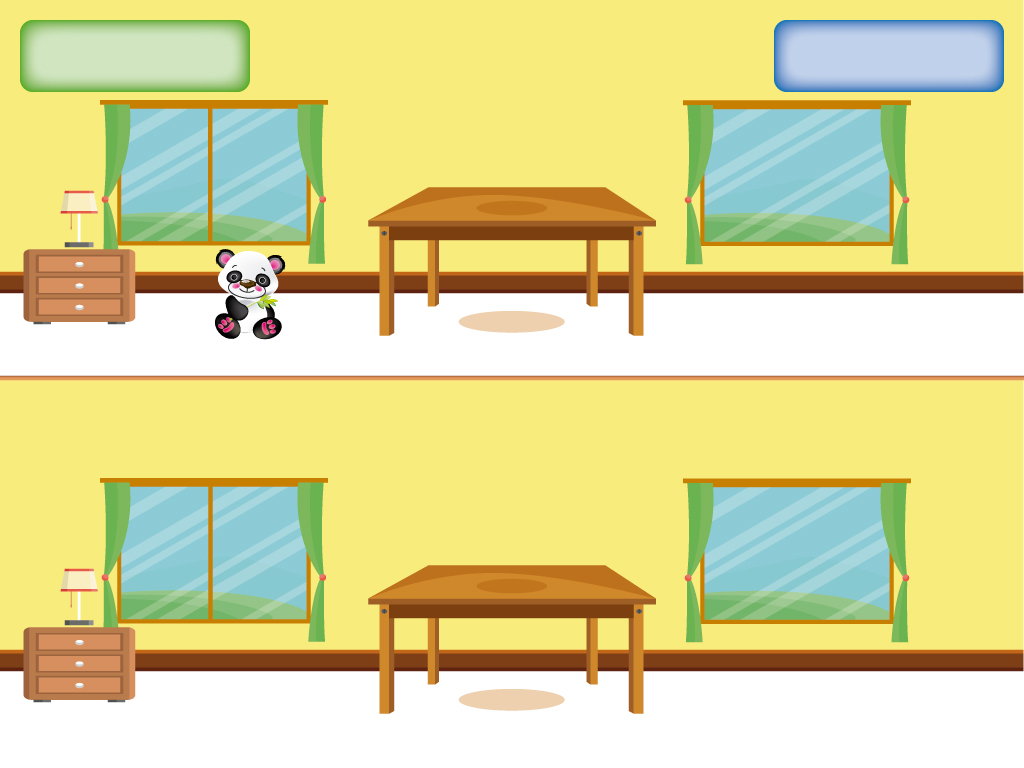
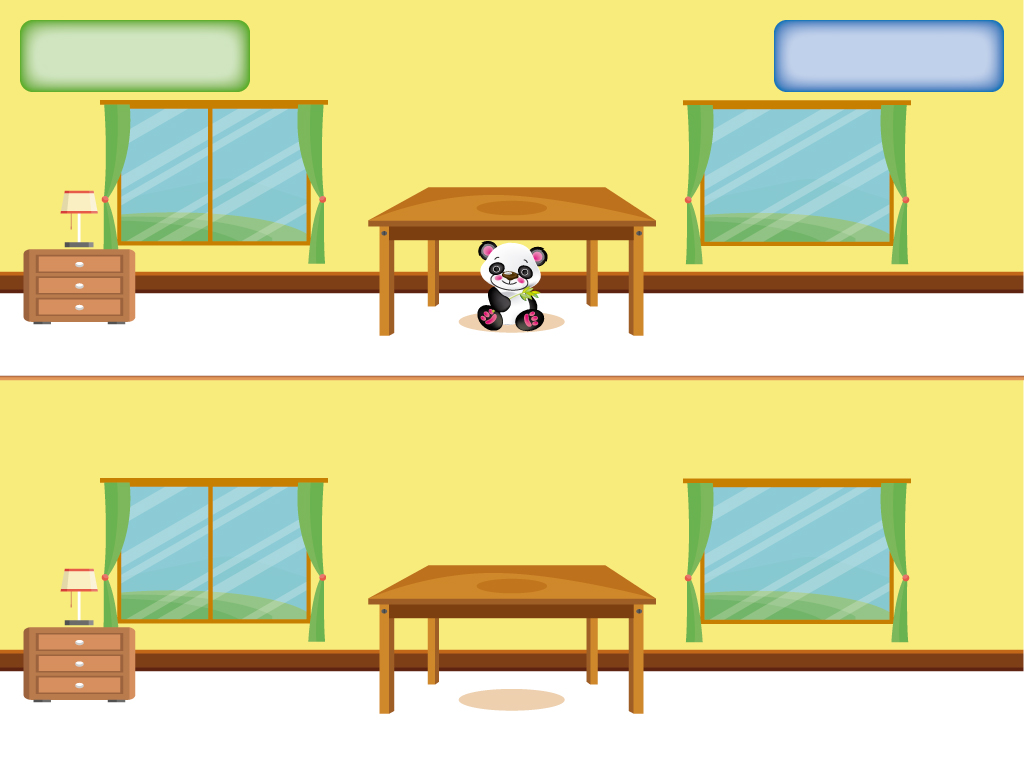
Cambios en el Juego Adentro Afuera y en Fin de Juego

Changed region(s): [[0.1875, 0.3125, 0.2812, 0.4375], [0.4688, 0.3125, 0.5312, 0.4375]]

diff --git a/JuegoFinal/main.py b/JuegoFinal/main.py
@@ -92,6 +92,7 @@ class IdleScreen():
 		self.clock = pygame.time.Clock()
 		self.font = pygame.font.SysFont("gaban", 55)
 		self.fontPuntaje = pygame.font.SysFont("Answer", 35)
+		self.fontTiempo = pygame.font.SysFont("Answer", 25)
 		self.fontFinJuego = pygame.font.SysFont("RicksAmericanNF", 55)
 		self.fontColor = (16, 4, 130)
 		self.menuItems = list()
@@ -1501,35 +1502,35 @@ class IdleScreen():
 			if actividad == "Adentro":
 				posOsoX = 150
 				posOsoY = 150
-				posObjX = 300
-				posObjY = 600
+				posObjX = 250
+				posObjY = 670
 			elif actividad == "Afuera":
 				posOsoX = 750
-				posOsoY = 150
+				posOsoY = 120
 				posObjX = 800
-				posObjY = 600
+				posObjY = 670
 			elif actividad == "Encima":
 				posOsoX = 150
 				posOsoY = 150
-				posObjX = 300
-				posObjY = 600
+				posObjX = 460
+				posObjY = 530
 			elif actividad == "Debajo":
 				posOsoX = 150
 				posOsoY = 150
-				posObjX = 300
-				posObjY = 600
+				posObjX = 460
+				posObjY = 685
 
 			# Instancia del objeto Cuadro
 			ObjJug = Oso.Osito(self.scrWidth, self.scrHeight, posOsoX, posOsoY)
 			# Instancia del Objeto ObjetivoMover
-			Lugar = Objetivo.ObjetivoMover(posObjX,posObjY,'Imagenes/Moneda1.png','Imagenes/Moneda2.png')
+			Lugar = Objetivo.ObjetivoMover(posObjX,posObjY,'Imagenes/Objetivo1.png','Imagenes/Objetivo2.png')
 
 			# Instancia del Objeto Puntaje
 			puntos = Puntaje.Score(self.fontPuntaje, (900,60))
 			# Cargar el Temporizador de la Actividad
-			Tempo = Temporizador.Tiempito(self.fontPuntaje, (900,120))
+			Tempo = Temporizador.Tiempito(self.fontTiempo, (135,42))
 			# Cargar el Temporizador de Ejecucion de la Actividad
-			Tempo2 = Temporizador.Tiempito(self.fontPuntaje, (130,60))
+			Tempo2 = Temporizador.Tiempito(self.fontTiempo, (130,72))
 			# Verificar si el Jugador gano o perdio
 			enJuego = True
 			#if not done:
@@ -1588,17 +1589,17 @@ class IdleScreen():
 				# Se Muestra la Actividad a Realizar
 				screen.blit(TxtActividad, (400,20))
 				# Se muestra el tiempo de la actividad
-				Tempo.update(screen)
+				Tempo.update_actividad(screen)
 				Tempo2.update(screen)
 				# Actualizar el Puntaje del JUEGO
 				puntos.update(screen)
-				# Actualiza el Osito en la Pantalla
-				ObjJug.update(screen, self.scrWidth)
 
 				# Animacion del ObjetivoMover
 				Lugar.comportamiento(tiempo)
 				# Dibuja el Objetivo a Realizar
 				Lugar.dibujar(screen)
+				# Actualiza el Osito en la Pantalla
+				ObjJug.update(screen, self.scrWidth)
 
 				#Verificar Colision del Jugador con el Objetivo
 				if ObjJug.rect.collidepoint(self.scrWidth - posObjX,posObjY):
@@ -2172,6 +2173,8 @@ class IdleScreen():
 	# Pantalla De Fin del Juego
 	def FinJuego(self, puntos, TiempoJuego, NroJuego):
 			global done
+			global PuntajeTotal
+			global TiempoTotal
 			screenloop = True
 			(depth,_) = get_depth()
 			# Lista de cache en blanco para el area convexa del casco
@@ -2205,6 +2208,8 @@ class IdleScreen():
 
 			while screenloop:
 				self.clock.tick(30)
+				PuntajeTotal = 0
+				TiempoTotal = 0
 				# Obtenga la profundidad del kinect
 				(depth,_) = get_depth()
 				old_depth = depth
@@ -2241,46 +2246,65 @@ class IdleScreen():
 					screen.blit(Marcador,(350,170))
 					screen.blit(TiempoFinal,(410,230))
 				elif NroJuego == 1:
-					y = 130
+					y = 115
 					accion = "Izquierda"
 					for item in listaPuntos:
 						Marcador = pygame.transform.flip(self.fontPuntaje.render("Puntaje "+ accion +" : " + str(item), 1, (143,31,130)), 1, 0)
-						screen.blit(Marcador,(510,y))
-						screen.blit(TiempoFinal,(200,y))
-						y += 50
-						if y == 180:
+						screen.blit(Marcador,(520,y))
+						TiempoFinal = pygame.transform.flip(self.fontPuntaje.render("Tiempo "+ accion +" : 500" , 1, (143,31,130)), 1, 0)
+						screen.blit(TiempoFinal,(190,y))
+						# Sumar el Puntaje Total
+						PuntajeTotal = PuntajeTotal + item
+						y += 45
+						if y == 160:
 							accion = "Derecha"
-						elif y == 230:
+						elif y == 205:
 							accion = "Arriba"
-						elif y == 280:
+						elif y == 250:
 							accion = "Abajo"
+					# Imprimir el Puntaje Total
+					PuntosTotales = pygame.transform.flip(self.fontPuntaje.render("Puntaje Total: " + str(PuntajeTotal), 1, (143,31,130)), 1, 0)
+					screen.blit(PuntosTotales,(520,295))
+					# Imprimir el Tiempo Total
+					TiemposTotales = pygame.transform.flip(self.fontPuntaje.render("Tiempo Total: 2000", 1, (143,31,130)), 1, 0)
+					screen.blit(TiemposTotales,(190,295))
 				elif NroJuego == 4:
 					# Imprimir el Puntaje de Todas las Acciones
-					y = 130
+					y = 115
 					accion = "Adentro"
 					for item in listaPuntos:
 						Marcador = pygame.transform.flip(self.fontPuntaje.render("Puntaje "+ accion +" : " + str(item), 1, (143,31,130)), 1, 0)
-						screen.blit(Marcador,(510,y))
-						y += 50
-						if y == 180:
+						screen.blit(Marcador,(520,y))
+						# Sumar el Puntaje Total
+						PuntajeTotal = PuntajeTotal + item
+						y += 45
+						if y == 160:
 							accion = "Afuera"
-						elif y == 230:
+						elif y == 205:
 							accion = "Encima"
-						elif y == 280:
+						elif y == 250:
 							accion = "Debajo"
+					# Imprimir el Puntaje Total
+					PuntosTotales = pygame.transform.flip(self.fontPuntaje.render("Puntaje Total: " + str(PuntajeTotal), 1, (143,31,130)), 1, 0)
+					screen.blit(PuntosTotales,(520,295))
 					# Imprimir el Tiempo de Todas las Acciones
-					y = 130
+					y = 115
 					accion = "Adentro"
 					for item in listaTiempo:
 						TiempoFinal = pygame.transform.flip(self.fontPuntaje.render("Tiempo "+ accion +" : " + str(item), 1, (143,31,130)), 1, 0)
-						screen.blit(TiempoFinal,(200,y))
-						y += 50
-						if y == 180:
+						screen.blit(TiempoFinal,(190,y))
+						# Sumar el Tiempo Total
+						TiempoTotal = TiempoTotal + item
+						y += 45
+						if y == 160:
 							accion = "Afuera"
-						elif y == 230:
+						elif y == 205:
 							accion = "Encima"
-						elif y == 280:
+						elif y == 250:
 							accion = "Debajo"
+					# Imprimir el Tiempo Total
+					TiemposTotales = pygame.transform.flip(self.fontPuntaje.render("Tiempo Total: " + str(TiempoTotal), 1, (143,31,130)), 1, 0)
+					screen.blit(TiemposTotales,(190,295))
 
 				# Se usa para que aparezca las imagenes que dan la vuelta
 				self.floatingPicture()

diff --git a/JuegoFinal/Clases/Temporizador.py b/JuegoFinal/Clases/Temporizador.py
@@ -18,3 +18,8 @@ class Tiempito(pygame.sprite.Sprite):
         self.image = pygame.transform.flip(self.font.render("Tiempo: " + str(self.temporal), 1, (255, 255, 255)), 1, 0)
         self.rect = self.image.get_rect(center = self.pos)
         screen.blit(self.image, self.rect)
+
+    def update_actividad(self, screen):
+        self.image = pygame.transform.flip(self.font.render("Tiempo Actividad: " + str(self.temporal), 1, (255, 255, 255)), 1, 0)
+        self.rect = self.image.get_rect(center = self.pos)
+        screen.blit(self.image, self.rect)

diff --git a/JuegoFinal/Clases/Oso.py b/JuegoFinal/Clases/Oso.py
@@ -20,4 +20,4 @@ class Osito(pygame.sprite.Sprite):
 			# Obtener la posicion del Oso en la pantalla invertida
 			self.PosOsoX = scrWidth - self.rect.centerx
 		# dibuja el oso cada vez que se mueve el mouse
-		screen.blit(self.ImagenOso, (self.PosOsoX - 100, self.rect.centery - 100))
+		screen.blit(self.ImagenOso, (self.PosOsoX - 52, self.rect.centery - 52))
